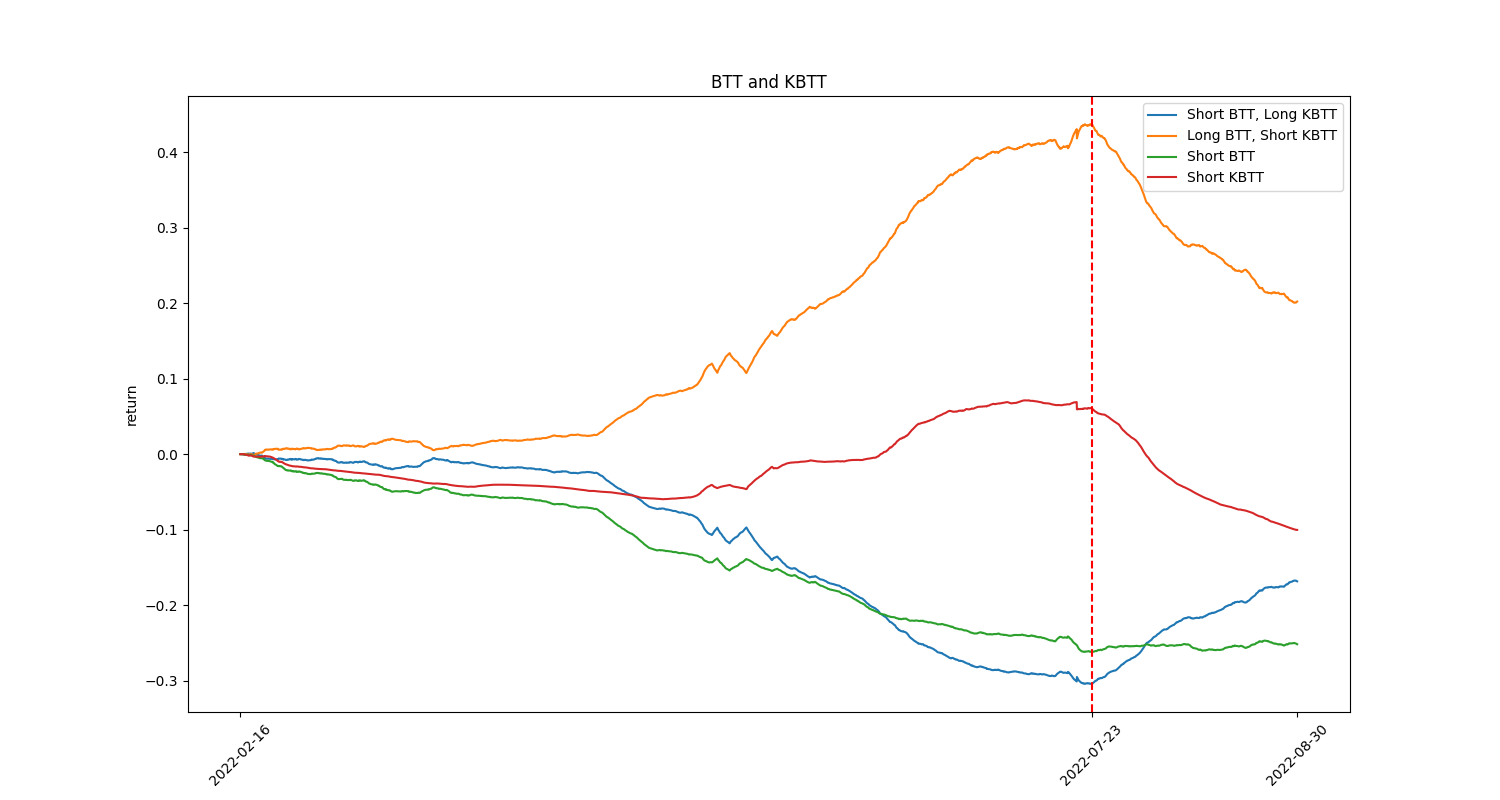
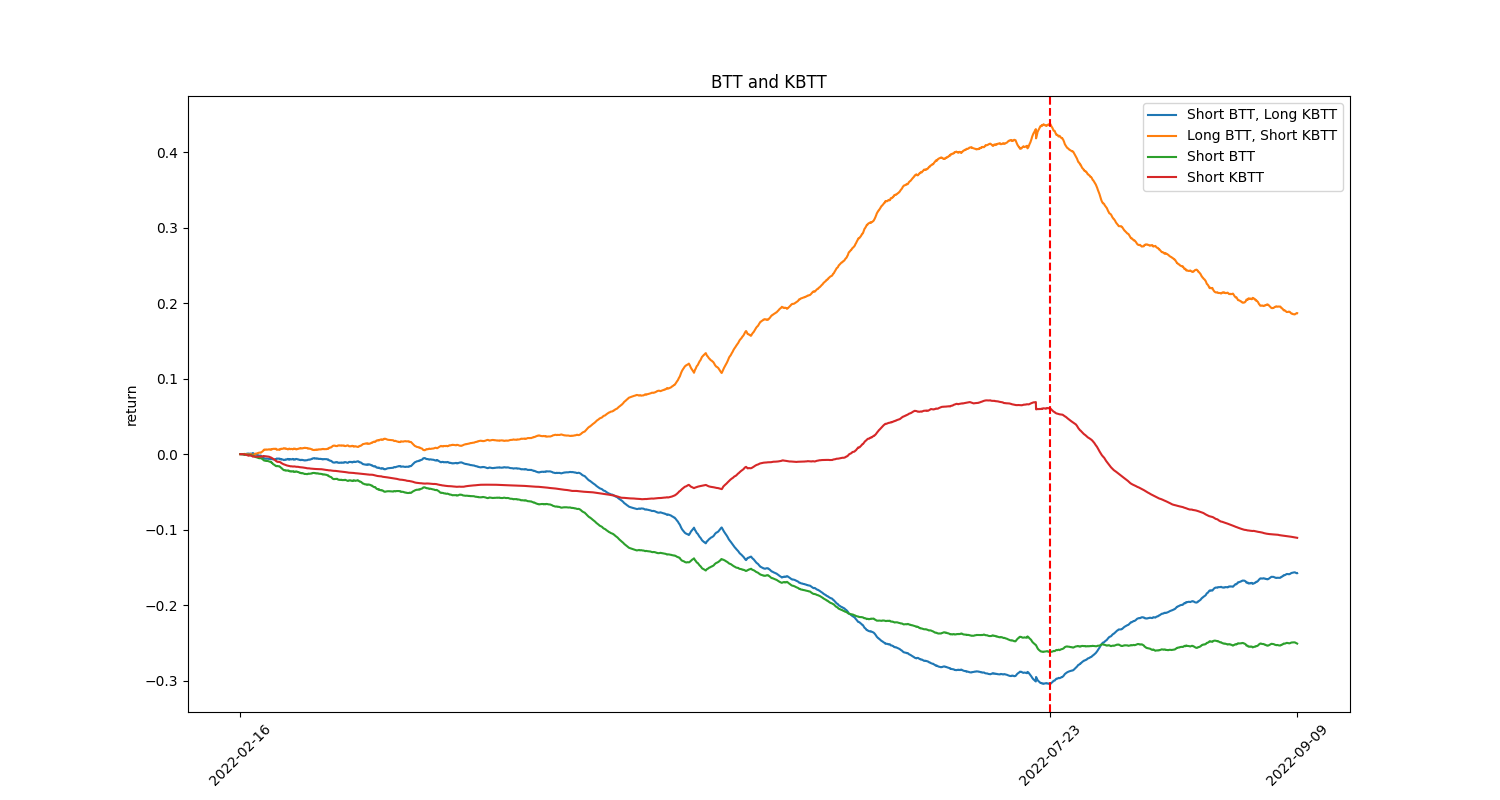
Update : figure of LUNC, results to 2022/09/09, script to run all results

diff --git a/README.md b/README.md
@@ -31,8 +31,9 @@ python main.py <COIN>
 ```
 
 ### Result
-As of 2022/08/30, the returns over time are:
+As of 2022/09/09, the returns over time are:
 ![BTT-KBTT](figure/BTT-KBTT.png)
 ![SHIB-KSHIB](figure/SHIB-KSHIB.png)
 ![SOS-KSOS](figure/SOS-KSOS.png)
+![LUNC-KLUNC](figure/LUNC-KLUNC.png)
 
